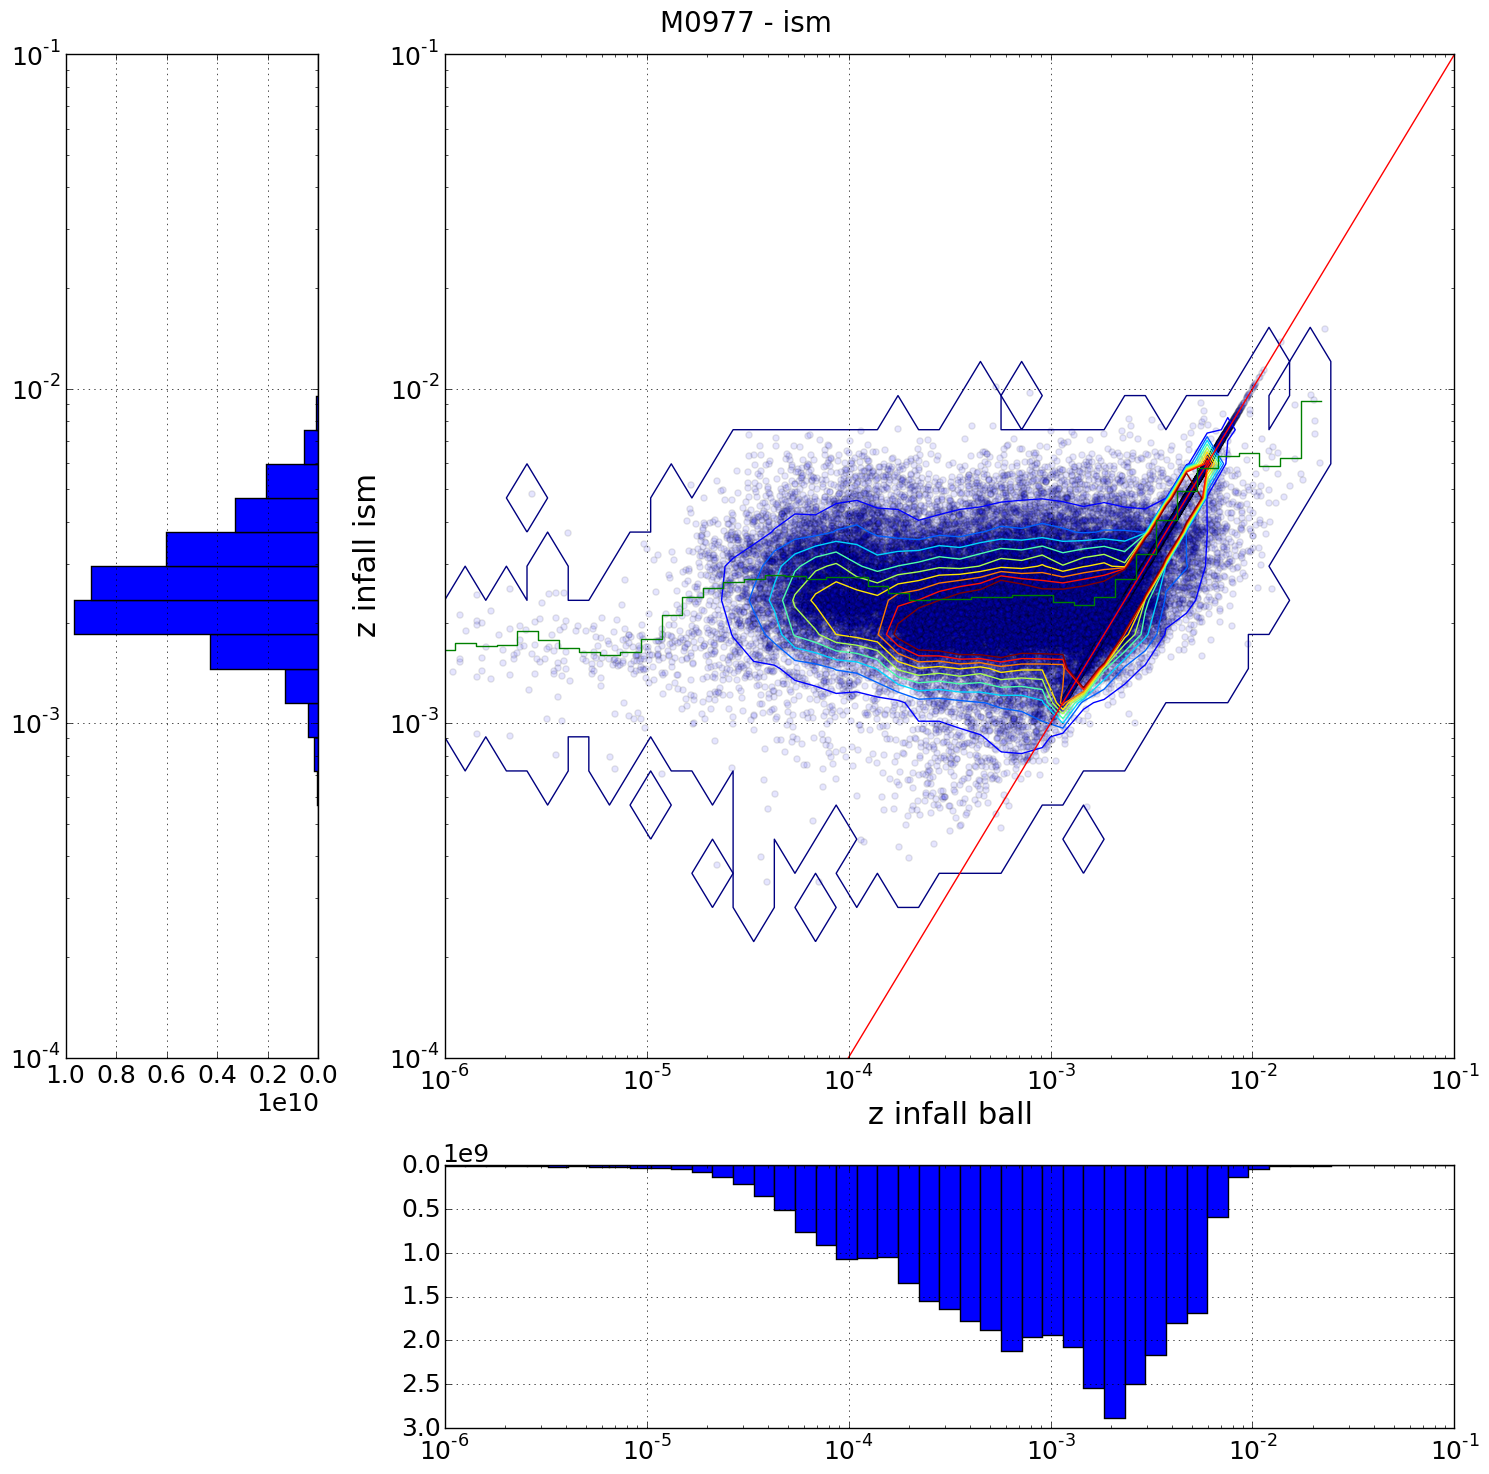
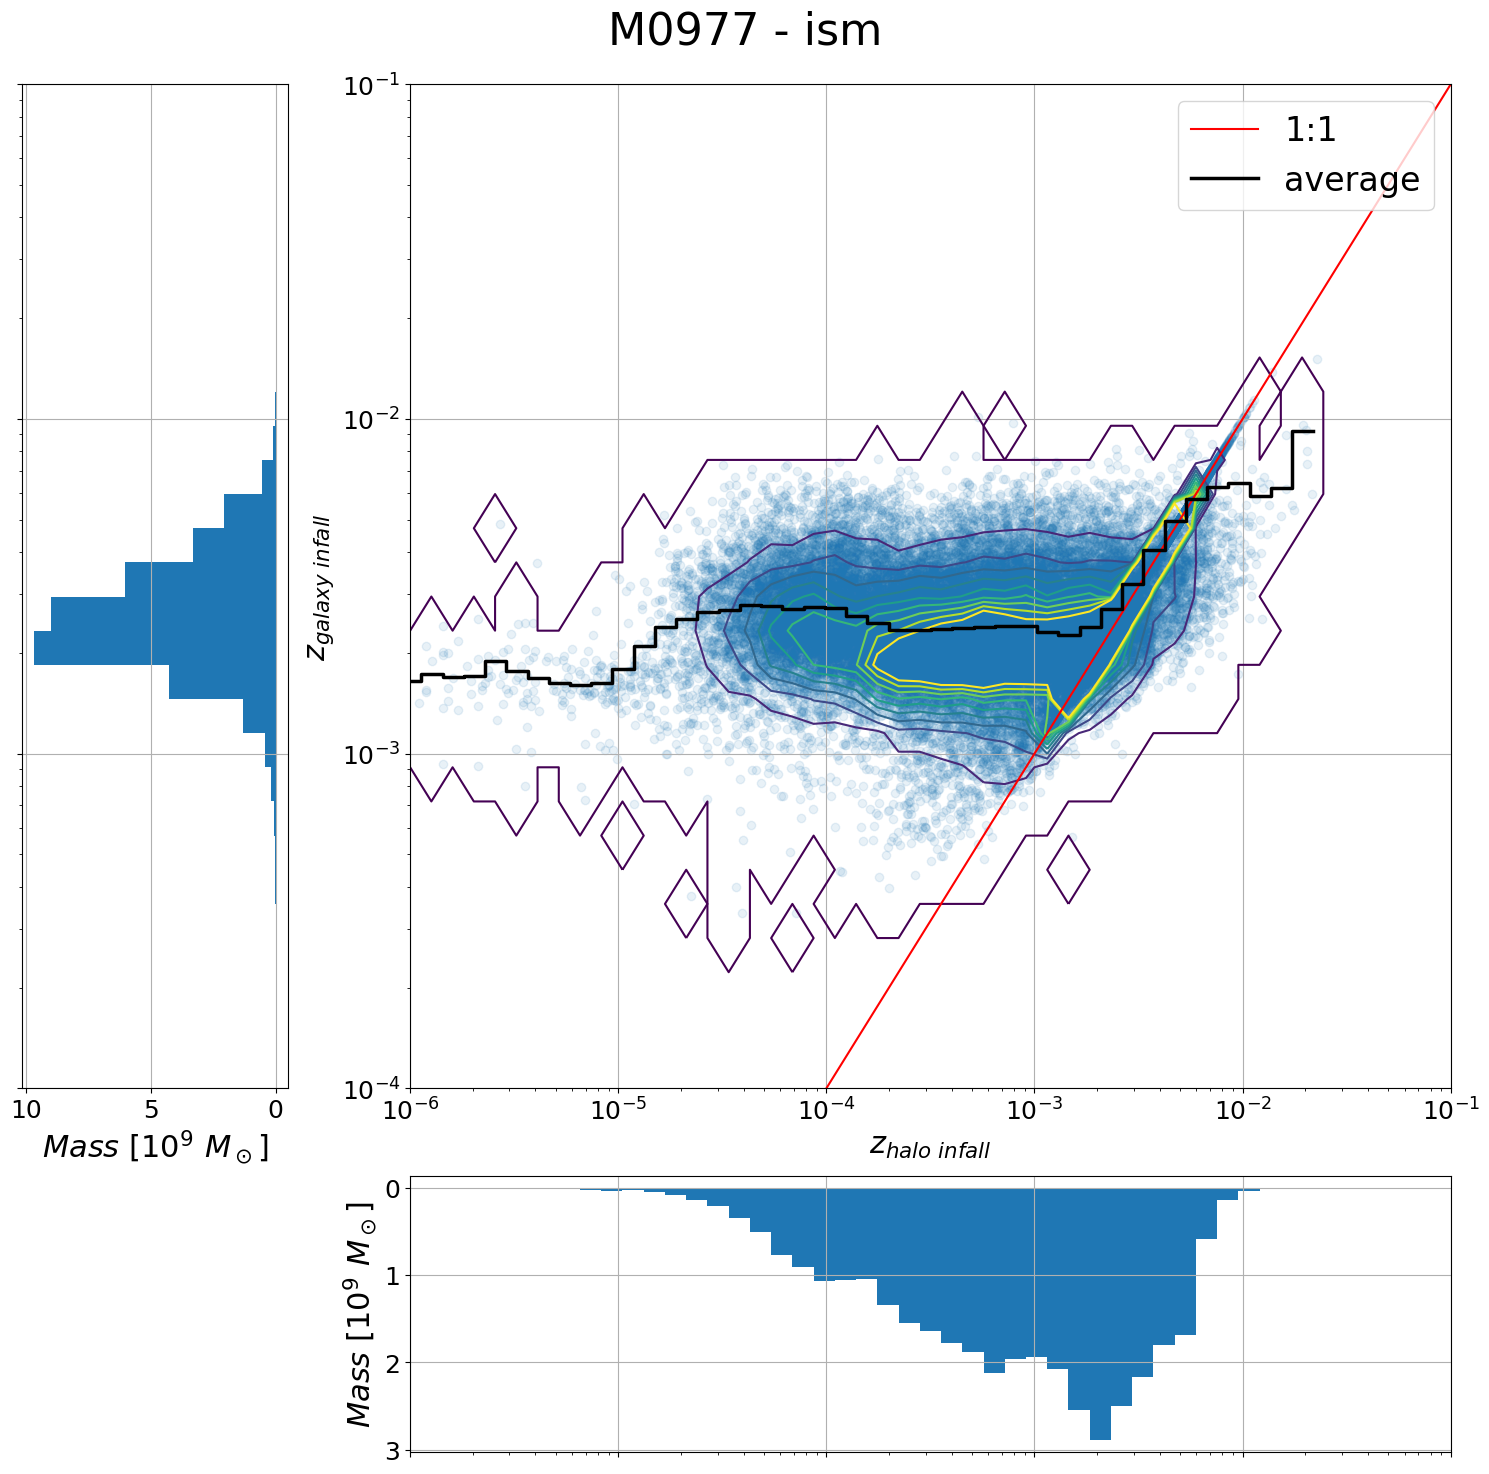
z_gal_vs_z_halo fix matplotlib 2.0.2 step alignment, add legend

diff --git a/1/z_gal_vs_z_halo.py b/1/z_gal_vs_z_halo.py
@@ -11,8 +11,6 @@ from multiprocessing import Pool
 
 filename = __file__
 
-plt.style.use('general')
-
 n, start, end = 50, -6, -1
 bins=np.logspace(start, end, n)
 
@@ -58,31 +56,41 @@ def plot(args):
     ax3 = plt.subplot(gs[-1, 1:])
 
     ax1.scatter(halo_z_1st_infall, disk_z_1st_infall, alpha=.1, edgecolor=None)
-    ax1.set_xlabel('z infall ball')
-    ax1.set_ylabel('z infall ism')
+    ax1.set_xlabel(r'$z_{halo\ infall}$')
+    ax1.set_ylabel(r'$z_{galaxy\ infall}$')
     ax1.set_xlim((1e-6, 1e-1))
     ax1.set_ylim((1e-4, 1e-1))
     ax1.set_xscale('log')
     ax1.set_yscale('log')
-    ax1.plot([0, 1e10], [0, 1e10], c='r')
+    ax1.plot([0, 1e10], [0, 1e10], c='r', label='1:1')
     cont = ax1.contour(X, Y, Z, np.linspace(0, np.percentile(Z, 99), 10))
-    ax1.step(edges_h[:-1], disk_infall_avg, where='mid')
+    ax1.step(edges_h[:-1], disk_infall_avg, where='mid',
+        color='k', lw=2.5, label='average')
+    ax1.legend(loc='upper right')
    
-    ax2.barh(edges_d[:-1], mass_at_disc_infall, height=np.diff(edges_d), log=True)
+    ax2.barh(edges_d[:-1], mass_at_disc_infall / 1e9,
+        height=np.diff(edges_d), log=True, align='edge')
     ax2.set_yscale('log')
     ax2.set_xscale('linear')
     ax2.set_xlim(ax2.get_xlim()[::-1])
     ax2.set_ylim(ax1.get_ylim())
+    ax2.set_xlabel(r'$Mass\ [10^{9}\ M_\odot]$')
+    ax2.tick_params(labelleft='off')    
 
-    ax3.bar(edges_h[:-1], mass_at_halo_infall, width=np.diff(edges_h), log=True)
+
+    ax3.bar(edges_h[:-1], mass_at_halo_infall / 1e9,
+        width=np.diff(edges_h), align='edge', log=True)
     ax3.set_xscale('log')    
-    ax3.set_yscale('linear')    
+    ax3.set_yscale('linear')
     ax3.set_ylim(ax3.get_ylim()[::-1])
     ax3.set_xlim(ax1.get_xlim())
+    ax3.set_ylabel(r'$Mass\ [10^{9}\ M_\odot]$')
+    ax3.tick_params(labelbottom='off')    
+
 
     f.tight_layout()
-    plt.subplots_adjust(top=0.95)
-    f.suptitle('%s - %s' % (halo, definition), fontsize=20)
+    plt.subplots_adjust(top=0.93)
+    f.suptitle('%s - %s' % (halo, definition), fontsize=32)
 
     plt.savefig(filename.split("/")[-1][:-3] + '_' + halo + '_' + definition + ".png", bbox_inches='tight')
 
